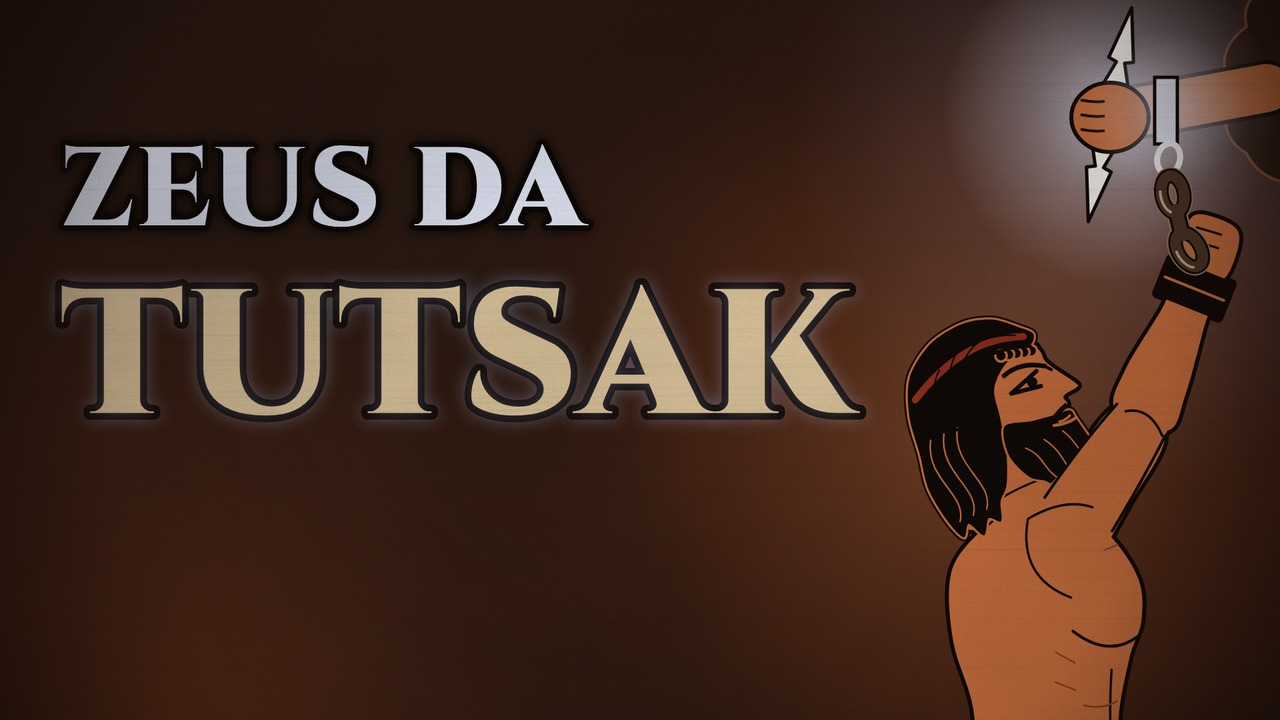
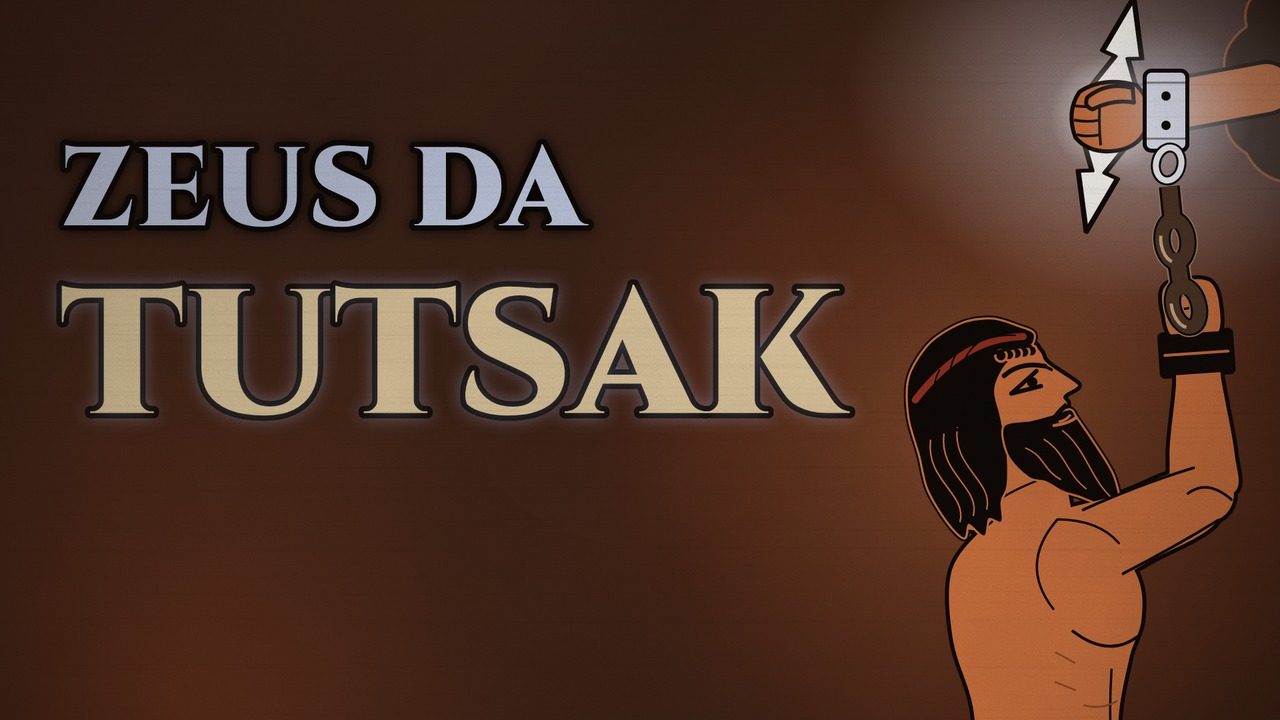
Kapak tur 3: B'de odak yıldırımda, Zeus'un kelepçesi ve zincir küçük boyda okunur
Kapak kurulu tur 2 (A 9,0 ONAY, B 7,8 RED) düzeltmeleri:
- B: yıldırım gövdesi kalınlaştı, beyaz çekirdek; ZEUS DA yazısı söndürüldü;
  kelepçe önkolu saran perçinli geniş bant; Prometheus'un yumruğu aşağı indi,
  zincir uzadı ve kalınlaştı; sis daraltıldı; yumruğa başparmak eklendi;
  TUTSAK harf aralığı ve konturu daraltıldı.
- A: alevin ucu kenardan içeride, ÇALDI büyük harfi %18, yazı bloğu aşağıda.
- İkisi: taban rengi açıldı, kapaklarda vinyet hafifletildi (köşeler ≈ 30).

Claude-Session: https://claude.ai/code/session_01DiDBPD2SuhvLG38Pt1c4BV

diff --git a/prometheus/lib/kapak.js b/prometheus/lib/kapak.js
@@ -19,7 +19,7 @@ function kapakText(ctx, l1, l2, col2, o = {}) {
 // Kapak kurulu tur 1 sonrası: akışta karanlık kalmasın (ortalama parlaklık ≈ 70, köşeler ≥ 30), tek odak karenin en parlak noktası,
 // büyük harf ≥ %18 (≥ 195 px, 1920'de), figür büyük (baş ≥ 435 px). Film P292 eski kapakBG/kapakText'i kullanır; onlara dokunulmaz.
 function kapakBG2(ctx, t, glowAt, o = {}) {
-  ctx.fillStyle = o.base || '#2A1912'; ctx.fillRect(0, 0, W, H);
+  ctx.fillStyle = o.base || '#3A2218'; ctx.fillRect(0, 0, W, H);
   const g = ctx.createRadialGradient(glowAt[0], glowAt[1], 0, glowAt[0], glowAt[1], o.r || 1125);
   g.addColorStop(0, o.c0 || 'rgba(201,112,63,.62)'); g.addColorStop(.5, o.c1 || 'rgba(140,62,30,.32)'); g.addColorStop(1, 'rgba(0,0,0,0)');
   ctx.fillStyle = g; ctx.fillRect(0, 0, W, H);
@@ -29,12 +29,12 @@ function kapakBG2(ctx, t, glowAt, o = {}) {
 function kapakText2(ctx, l1, l2, c1, c2, o = {}) {
   ctx.save(); const x = o.x ?? 90;
   txt(ctx, l1, x, o.y1 ?? 300, { font: `900 ${o.s1 || 150}px Cinzel`, col: c1, align: 'left', ls: 2, stroke: 'rgba(14,9,7,.92)', sw: 16, shadow: 'rgba(0,0,0,.7)', blur: 20, force: true });
-  txt(ctx, l2, x, o.y2 ?? 560, { font: `900 ${o.s2 || 280}px Cinzel`, col: c2, align: 'left', ls: 3, stroke: 'rgba(14,9,7,.92)', sw: 20, shadow: o.glow || 'rgba(0,0,0,.7)', blur: o.blur || 22, force: true });
+  txt(ctx, l2, x, o.y2 ?? 560, { font: `900 ${o.s2 || 280}px Cinzel`, col: c2, align: 'left', ls: o.ls2 ?? 3, stroke: 'rgba(14,9,7,.92)', sw: o.sw2 ?? 20, shadow: o.glow || 'rgba(0,0,0,.7)', blur: o.blur || 22, force: true });
   ctx.restore();
 }
 // A: "BİLE BİLE ÇALDI": ateşi kaldırmış büyük Prometheus, bakışı aleve; ateş karenin en parlak noktası (çekirdek beyaz)
 SCENES.kapakA = (ctx, t) => {
-  const fire = [1050, 215];
+  const fire = [1050, 265];
   kapakBG2(ctx, t, fire);
   const s = 21, px = 1545, py = 1080 + 14 * s;
   const pose = { torso: -.03, neck: -.12, head: -.3, shF: 2.7, elF: .28, shN: -.15, elN: .2, handN: 'fist', handF: 'fist', mouthOpen: 0, smile: -.4, scowl: .45, wind: .6 };
@@ -51,14 +51,15 @@ SCENES.kapakA = (ctx, t) => {
   flame(ctx, fire[0], fire[1] + 40, 5.1, t, { haloR: 60 });
   glow(ctx, fire[0], fire[1] - 20, 70, 'rgba(255,255,255,.95)');
   motes(ctx, t, 40, 9, 'rgba(255,200,120,.9)', [980, 40, 420, 300], 40, 2.4, .8);
-  kapakText2(ctx, 'BİLE BİLE', 'ÇALDI', '#D6C29C', '#F2B453', { y1: 300, y2: 560, s1: 148, s2: 276, glow: 'rgba(255,150,60,.3)', blur: 26 });
+  kapakText2(ctx, 'BİLE BİLE', 'ÇALDI', '#D6C29C', '#F2B453', { y1: 340, y2: 600, s1: 148, s2: 284, glow: 'rgba(255,150,60,.3)', blur: 26 });
 };
 // B: "ZEUS DA TUTSAK": zincirli Prometheus sağ üste bakar; zincir, kadrajın içinde, kelepçeli bir yumruğa (Zeus) gider;
 // yumruk soğuk beyaz yıldırımı tutar: yıldırım ve kelepçe karenin en parlak noktası
 SCENES.kapakB = (ctx, t) => {
   const F = [1665, 172];
   kapakBG2(ctx, t, [1480, 650], { r: 900, c0: 'rgba(201,112,63,.5)', c1: 'rgba(120,52,24,.3)', bc: 'rgba(150,66,30,.38)' });
-  glow(ctx, F[0] + 40, F[1] + 40, 520, 'rgba(150,170,225,.30)');
+  // soğuk hâle kelepçenin arkasında, dar: yıldırımın hemen arkası koyu kalsın (beyaz şekli yutmasın)
+  glow(ctx, F[0] + 84, F[1] - 6, 380, 'rgba(150,170,225,.22)');
   glow(ctx, 1640, 320, 375, 'rgba(201,112,63,.22)');
   // tek düz bulut silueti sağ kenarda: Zeus'un önkolu buradan yatay çıkar
   ctx.fillStyle = '#2A1A12'; ctx.strokeStyle = 'rgba(201,112,63,.55)'; ctx.lineWidth = 4; ctx.beginPath(); ctx.moveTo(1990, -20); ctx.lineTo(1990, 270);
@@ -67,23 +68,36 @@ SCENES.kapakB = (ctx, t) => {
   ctx.save(); ctx.lineCap = 'round';
   ctx.strokeStyle = C.ink; ctx.lineWidth = 84; ctx.beginPath(); ctx.moveTo(1900, F[1] - 40); ctx.lineTo(F[0] + 40, F[1] - 4); ctx.stroke();
   ctx.strokeStyle = STY.red.fill; ctx.lineWidth = 72; ctx.stroke(); ctx.restore();
-  // yıldırım (keraunos) ortasından kavranır: önce yıldırım, üstüne yumruk
-  bolt(ctx, F[0], F[1], 2.1, .2, '#FFFFFF', 'rgba(225,232,255,.75)');
+  // yıldırım (keraunos) ortasından kavranır: kalın gövde (≥ 70 px), beyaz çekirdek; önce yıldırım, üstüne yumruk
+  ctx.save(); ctx.translate(F[0], F[1]); ctx.rotate(.2); ctx.scale(1.45, 1);
+  bolt(ctx, 0, 0, 2.3, 0, '#FFFFFF', 'rgba(235,240,255,.55)'); ctx.restore();
+  glow(ctx, F[0], F[1], 90, 'rgba(255,255,255,.9)');
   ctx.save(); ctx.translate(F[0], F[1]);
-  ctx.fillStyle = STY.red.fill; ctx.strokeStyle = C.ink; ctx.lineWidth = 6; ctx.beginPath(); ctx.ellipse(0, 4, 58, 52, 0, 0, TAU); ctx.fill(); ctx.stroke();
-  ctx.lineWidth = 4; for (let k = 0; k < 3; k++) { ctx.beginPath(); ctx.moveTo(-44, -22 + k * 22); ctx.quadraticCurveTo(-24, -18 + k * 22, -8, -20 + k * 22); ctx.stroke(); }
-  // bilekte soğuk beyaz kelepçe (önkola dik bant) ve altından sarkan halka
-  ctx.translate(84, -6); glow(ctx, 0, 0, 120, 'rgba(225,232,255,.6)');
-  ctx.fillStyle = '#E6ECFF'; ctx.lineWidth = 5; ctx.beginPath(); ctx.rect(-17, -50, 34, 100); ctx.fill(); ctx.stroke();
+  // yumruk: parmaklar önde (solda) kıvrık, başparmak yıldırımın üstüne kapanır
+  ctx.fillStyle = STY.red.fill; ctx.strokeStyle = C.ink; ctx.lineWidth = 6; ctx.lineJoin = 'round';
+  ctx.beginPath(); ctx.moveTo(40, -44); ctx.quadraticCurveTo(-10, -58, -46, -34); ctx.quadraticCurveTo(-66, -4, -52, 34); ctx.quadraticCurveTo(-30, 60, 10, 54);
+  ctx.quadraticCurveTo(48, 48, 56, 14); ctx.quadraticCurveTo(62, -22, 40, -44); ctx.closePath(); ctx.fill(); ctx.stroke();
+  ctx.lineWidth = 4; for (let k = 0; k < 3; k++) { ctx.beginPath(); ctx.moveTo(-58 + k * 4, -14 + k * 22); ctx.quadraticCurveTo(-34, -10 + k * 22, -14, -14 + k * 22); ctx.stroke(); }
+  ctx.beginPath(); ctx.moveTo(-14, -36); ctx.quadraticCurveTo(-18, 6, -14, 46); ctx.stroke();
+  ctx.lineWidth = 6; ctx.beginPath(); ctx.moveTo(34, -40); ctx.quadraticCurveTo(-4, -50, -34, -26); ctx.quadraticCurveTo(-40, -12, -26, -8); ctx.quadraticCurveTo(6, -24, 36, -18); ctx.closePath(); ctx.fill(); ctx.stroke();
+  // bilekte soğuk beyaz kelepçe: önkolu saran geniş bant (kolun iki yanından taşar), iki perçin; altından halka sarkar
+  ctx.translate(84, -6); glow(ctx, 0, 0, 130, 'rgba(225,232,255,.55)');
+  ctx.fillStyle = '#E6ECFF'; ctx.lineWidth = 6; ctx.beginPath(); ctx.roundRect(-32, -60, 64, 120, 10); ctx.fill(); ctx.stroke();
+  ctx.strokeStyle = 'rgba(14,9,7,.45)'; ctx.lineWidth = 3; ctx.beginPath(); ctx.moveTo(-32, -42); ctx.lineTo(32, -42); ctx.moveTo(-32, 42); ctx.lineTo(32, 42); ctx.stroke();
+  ctx.fillStyle = C.ink; for (const yy of [-22, 22]) { ctx.beginPath(); ctx.arc(0, yy, 7, 0, TAU); ctx.fill(); }
   ctx.restore();
-  const ring = [F[0] + 88, F[1] + 66];
-  ctx.strokeStyle = '#F2F5FF'; ctx.lineWidth = 9; ctx.beginPath(); ctx.ellipse(ring[0], ring[1], 17, 23, .2, 0, TAU); ctx.stroke();
+  const ring = [F[0] + 88, F[1] + 74];
+  ctx.strokeStyle = C.ink; ctx.lineWidth = 15; ctx.beginPath(); ctx.ellipse(ring[0], ring[1], 19, 25, .2, 0, TAU); ctx.stroke();
+  ctx.strokeStyle = '#F2F5FF'; ctx.lineWidth = 9; ctx.stroke();
   const s = 17, px = 1580, py = 1080 + 13.5 * s;
   let J = null, M = null;
   figure(ctx, { x: px, y: py, s, dir: 1, sty: STY.red, lk: { ...LK.prom, eyeS: 1.3 }, still: true, stripe: .5, faceW: 1.5,
-    p: { torso: -.06, neck: -.14, head: -.24, shN: 2.5, elN: .2, shF: -.25, elF: .5, handN: 'fist', handF: 'fist', mouthOpen: .15, scowl: .75 },
+    p: { torso: -.06, neck: -.14, head: -.24, shN: 1.95, elN: 1.2, shF: -.25, elF: .5, handN: 'fist', handF: 'fist', mouthOpen: .15, scowl: .75 },
     hold: { N: CUFF, F: CUFF }, onJoints: (j, m) => { J = j; M = m; } });
   const wN = jointPt(ctx, M, J.AN.wr);
-  ironChain(ctx, [wN[0], wN[1] - 30], [ring[0], ring[1] + 18], { L0: len(sub(ring, wN)) * 1.02, w: 16, link: 56, col: '#4A3426', hi: '#C9A888', bandCol: '#9C7B62' });
-  kapakText2(ctx, 'ZEUS DA', 'TUTSAK', '#DCE3F6', '#D6C29C', { y1: 300, y2: 560, s1: 168, s2: 266, glow: 'rgba(170,190,240,.3)', blur: 24 });
+  ironChain(ctx, [wN[0], wN[1] - 30], [ring[0], ring[1] + 20], { L0: len(sub(ring, wN)) * 1.07, w: 20, link: 64, col: '#4A3426', hi: '#C9A888', bandCol: '#9C7B62' });
+  kapakText2(ctx, 'ZEUS DA', 'TUTSAK', '#B9C3DD', '#D6C29C', { y1: 300, y2: 560, s1: 168, s2: 266, ls2: 0, sw2: 16, glow: 'rgba(170,190,240,.3)', blur: 24 });
 };
+// akışta kapağın kenarı koyu temaya karışmasın (köşeler ≥ 30): kapaklarda vinyet hafif
+SCENES.kapakA.post = { vig: .45 };
+SCENES.kapakB.post = { vig: .45 };
